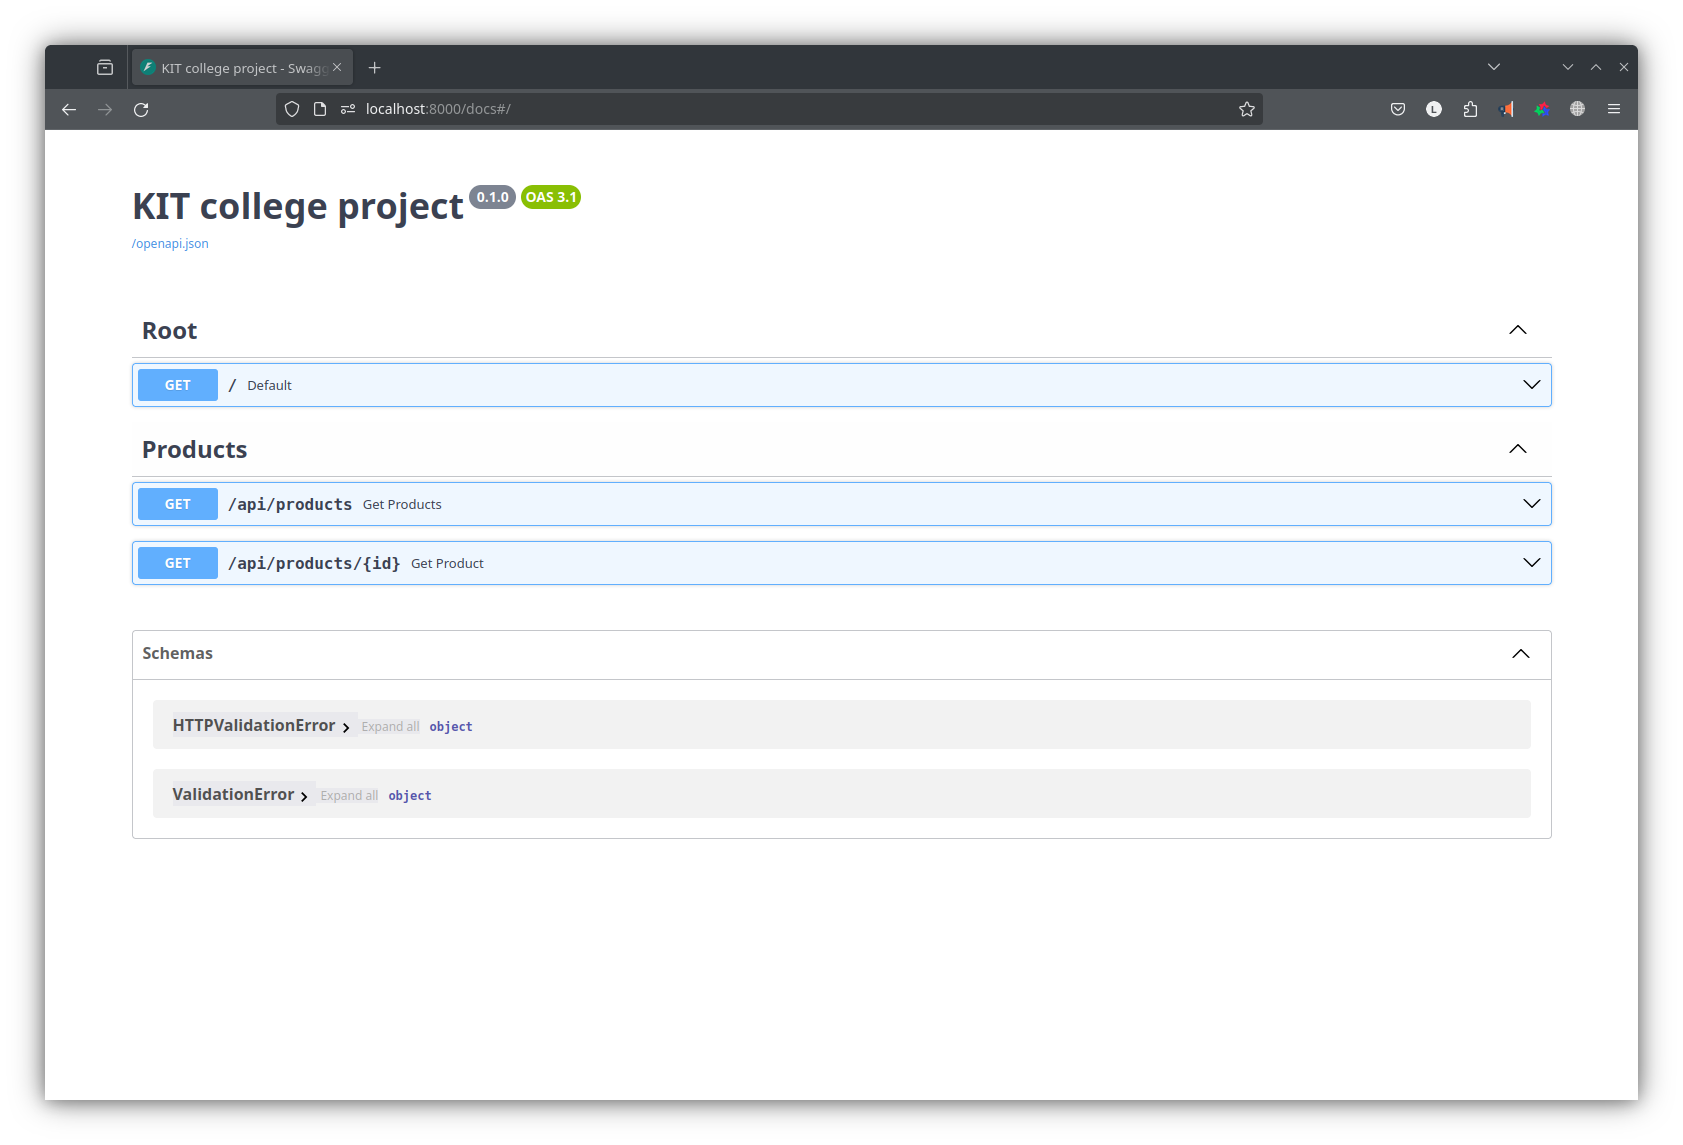
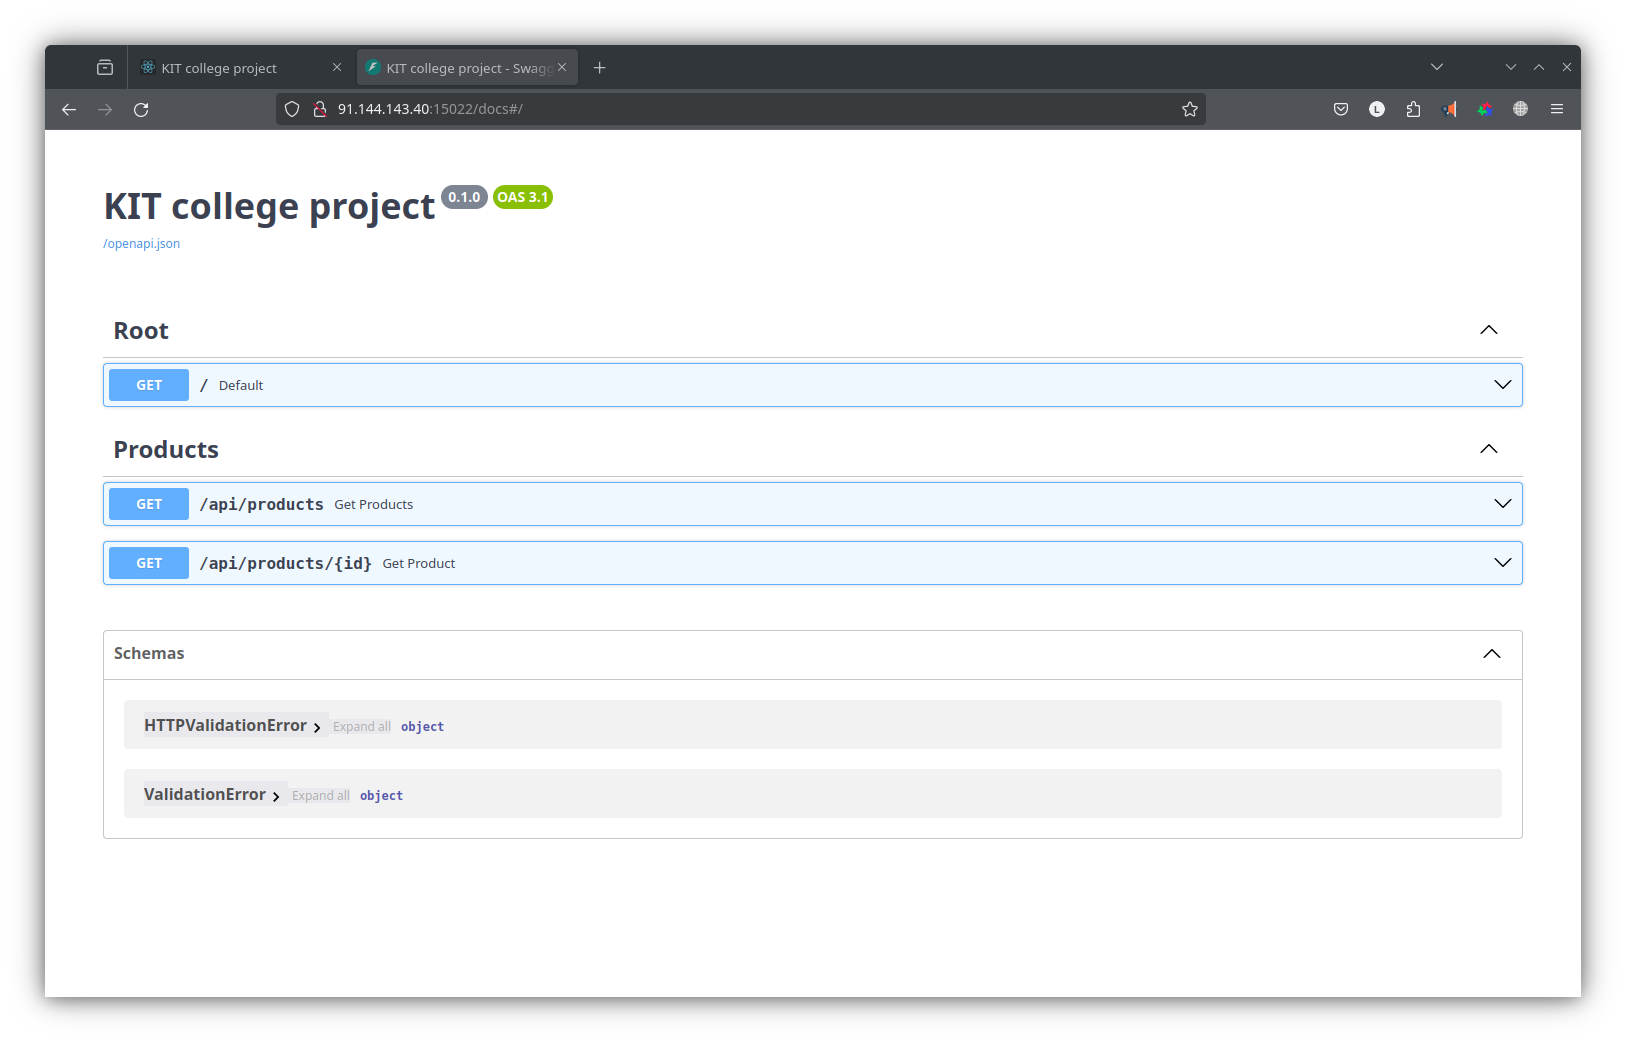
feat: readme

diff --git a/README.md b/README.md
@@ -1,3 +1,7 @@
 # KIT college project
 
 ![image info](.assets/images/web-api-screen-1.png)
+![image info](.assets/images/web-api-screen-2.png)
+![image info](.assets/images/web-api-screen-3.png)
+![image info](.assets/images/web-ui-screen-1.png)
+![image info](.assets/images/web-ui-screen-2.png)

diff --git a/INSTALL.md b/INSTALL.md
@@ -105,3 +105,5 @@ and open a start page of an application in the browser
 ```console
 http://localhost:3000
 ```
+
+![image info](.assets/images/web-ui-screen-1.png)
